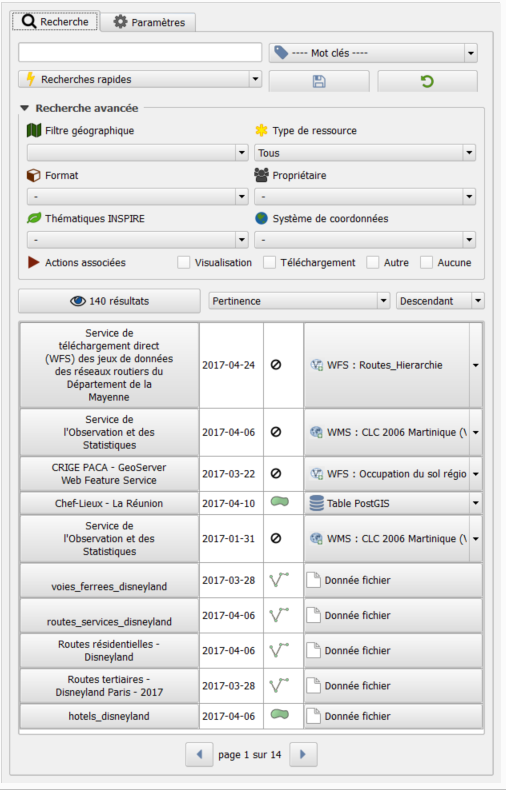
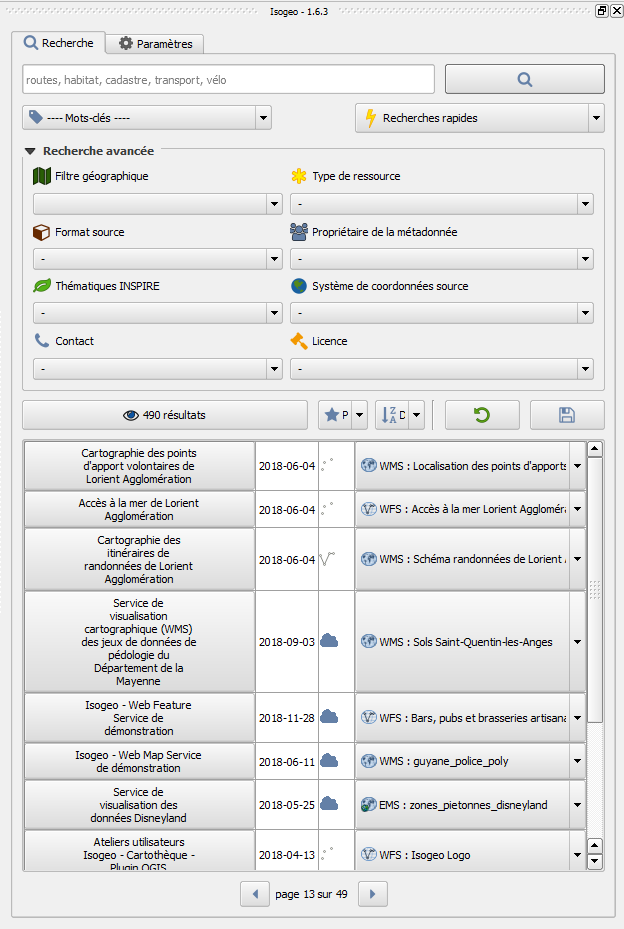
update screen captures and add meta description

Changed region(s): [[0.0, 0.0, 1.0, 1.0]]

diff --git a/fr/appendices/support.md b/fr/appendices/support.md
@@ -1,3 +1,7 @@
+---
+description: FAQ et comment résoudre les problèmes avec le plugin Isogeo pour QGIS
+---
+
 # Support et questions fréquentes
 
 ## Comment signaler un comportement anormal ? {#report}
@@ -5,7 +9,7 @@
 Si vous obtenez un message d'erreur ou bien vous constatez un comportement anormal, voici la procédure à suivre :
 
 * vérifier dans cette documentation si par hasard rien ne correspond à une explication du comportement constaté ;\)
-* regarder l'onglet dédié à isogeo dans la fenêtre des messages de QGIS :
+* regarder l'onglet dédié à Isogeo dans la fenêtre des messages de QGIS :
 
 !["Ouvrir la fenêtre des messages de QGIS"](/assets/qgis_log_view_tab_isogeo_fr.png)
 
@@ -30,7 +34,7 @@ Vérifier qu'au moins un partage alimente l'application : voir [comment partager
 
 ### Pourquoi aucun résultat n'est ajoutable ? {#not_add_option}
 
-Pour qu'une donnée soit ajoutable à la carte \(canevas cartographique selon le vocabulaire QGIS\), il faut que des informations le permettant soient cataloguées dans la métadonnée.
+Pour qu'une donnée soit ajoutable à la carte \(canevas cartographique selon le vocabulaire QGIS\), il faut que des informations le permettant soient cataloguées dans la métadonnée. Essayer également de vider le cache.
 
 Pour en savoir plus, [consulter la section dédiée dans la documentation](/usage/display.md).
 

diff --git a/fr/usage/metadata.md b/fr/usage/metadata.md
@@ -1,20 +1,23 @@
+---
+description: Consulter une métadonnée avec le plugin Isogeo pour QGIS
+---
+
 # M&eacute;tadonn&eacute;es
 
 ## Consulter les métadonnées {#display}
 
 Une fois les résultats affichés, l'utilisateur peut consulter la fiche de métadonnées Isogeo correspondant à la donnée en cliquant sur le titre. Elle s'affiche alors dans une fenêtre indépendante contenant les informations réparties dans différents onglets verticaux :
 
-![](/assets/ui_detailed_metadata_fr_general.png "Fiche de m&eacute;tadonn&eacute;es d&eacute;taill&eacute;e dans QGIS")
+![Fiche de m&eacute;tadonn&eacute;es d&eacute;taill&eacute;e dans QGIS](/assets/ui_detailed_metadata_fr_general.png)
 
 ---
 
 ## Synchroniser les métadonnées {#sync}
 
-Lors de l'ajout d'une donnée à QGIS depuis le plugin, les métadonnées Isogeo sont ajoutées aux informations de la couche : 
+Lors de l'ajout d'une donnée à QGIS depuis le plugin, les métadonnées Isogeo sont ajoutées aux informations de la couche :
 
 * titre ;
 * résumé ;
 * mots-clés.
 
-![](/assets/ui_layer_metadata_fr.png "M&eacute;tadonn&eacute;es de couche remplies à partir d&apos;Isogeo")
-
+![M&eacute;tadonn&eacute;es de couche remplies à partir d&apos;Isogeo](/assets/ui_layer_metadata_fr.png)

diff --git a/fr/usage/display.md b/fr/usage/display.md
@@ -1,4 +1,8 @@
-# Ajouter une donnée à la carte
+---
+description: Ajouter une donnée à la carte de QGIS (canevas) avec le plugin Isogeo
+---
+
+# Ajouter une donnée à la carte {#add_data_from_metadata}
 
 La principale finalité du plugin est de permettre à l'utilisateur final d'ajouter les données du catalogue directement à sa carte, sans se soucier de configurer les paramètres d'accès aux données sources.
 
@@ -9,7 +13,7 @@ Pour pouvoir ajouter les données à l'espace de travail du logiciel SIG, le plu
 * **aucune donnée ne transite par notre infrastructure**
 * seules les métadonnées sont utilisées et plus particulièrement les champs d'identification de la donnée source ([emplacement et nom technique](http://help.isogeo.com/admin/fr/features/documentation/md_identification.html#emplacement--nom-de-la-donn%C3%A9e))
 
-## Options d&apos;ajout
+## Options d&apos;ajout {#add_options}
 
 Pour ajouter une donnée à la carte, la colonne "Ajouter" liste les options possibles.
 
@@ -29,7 +33,7 @@ Il y a plusieurs cas de figure :
 
 ---
 
-## Critères
+## Critères {#add_criteria}
 
 ### Données fichier {#add_files}
 

diff --git a/fr/appendices/versions.md b/fr/appendices/versions.md
@@ -1,4 +1,32 @@
+---
+description: Changelog des versions du plugin Isogeo pour QGIS
+---
+
 # Notes de versions
+
+
+<!-- timeline -->
+
+## 1.6.3 {#version163}
+
+<br> Publiée le 1er février 2019 :
+
+> [Consulter la fiche de version sur Github.](https://github.com/isogeo/isogeo-plugin-qgis/milestone/8?closed=1)
+
+* correction d'un problème bloquant l'installation [#165](https://github.com/isogeo/isogeo-plugin-qgis/issues/165)
+* correction d'un problème bloquant l'ajout de données raster [#166](https://github.com/isogeo/isogeo-plugin-qgis/issues/166)
+
+<!-- /timeline -->
+
+<!-- timeline -->
+
+## 1.6.2 {#version162}
+
+<br> Publiée le 30 novembre 2018 :
+
+* amélioration du système de cache [#135](https://github.com/isogeo/isogeo-plugin-qgis/issues/135)
+
+<!-- /timeline -->
 
 <!-- timeline -->
 

diff --git a/fr/usage/search.md b/fr/usage/search.md
@@ -1,3 +1,7 @@
+---
+description: Utiliser le moteur de recherche de données Isogeo dans QGIS
+---
+
 # Rechercher
 
 Pour tenir compte du moteur de recherche Isogeo \(basé sur le principes des facettes contextuelles\) mais aussi pour les performances, la recherche se passe en deux temps :

diff --git a/fr/README.md b/fr/README.md
@@ -1,3 +1,9 @@
+---
+description: Présentation générale du plugin Isogeo pour QGIS
+---
+
+# Plugin Isogeo pour QGIS
+
 ![Logo Isogeo QGIS](../assets/logo_IsoQGIS.png)
 
 Vous rêviez d’un moteur de recherche de données dans votre SIG… Isogeo l'a fait !

diff --git a/fr/usage/configuration.md b/fr/usage/configuration.md
@@ -1,3 +1,7 @@
+---
+description: Configurer le plugin Isogeo pour QGIS
+---
+
 # Configuration et paramètres
 
 ## Authentification
